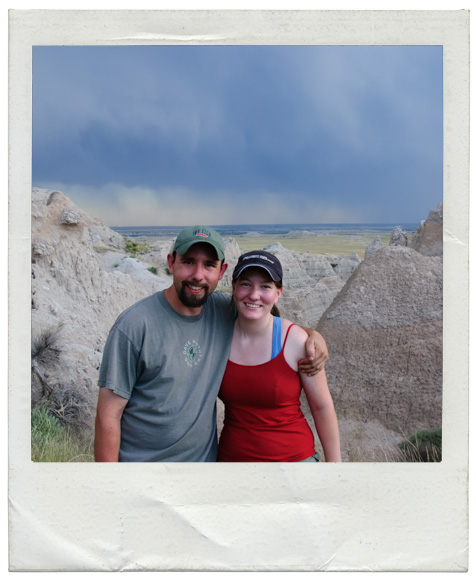
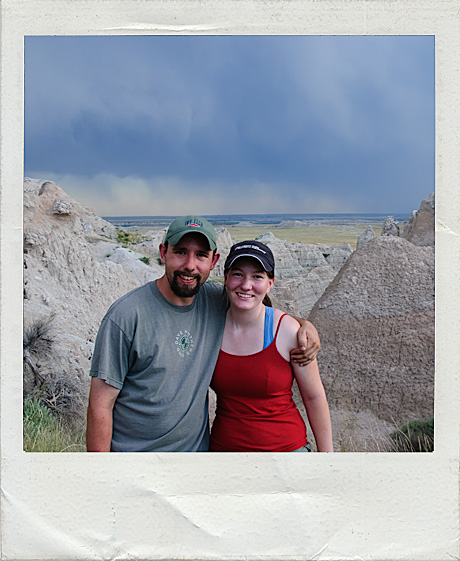
added picture and lorem ipsum

diff --git a/app/assets/stylesheets/pages.css.scss b/app/assets/stylesheets/pages.css.scss
@@ -110,7 +110,11 @@ header#mainHeader ul li.this {
 	border-right: 1px solid #000;
 	border-top: 1px solid #000;
 	border-bottom: 1px solid #000;
-	
+}
+
+#main div#homecontent
+{
+  margin-right: 25px;
 }
 
 .leg {
@@ -185,3 +189,17 @@ img#flower {
 	left: 900px;
 	bottom: 500px;
 }
+
+img#polaroid {
+  -ms-filter: "progid:DXImageTransform.Microsoft.Matrix(M11=0.99619470, M12=0.08715574, M21=-0.08715574, M22=0.99619470,sizingMethod='auto expand')";
+  filter: progid:DXImageTransform.Microsoft.Matrix(M11=0.99619470, M12=0.08715574, M21=-0.08715574, M22=0.99619470,sizingMethod='auto expand');
+  -moz-transform:  matrix(0.99619470, -0.08715574, 0.08715574, 0.99619470, 0, 0);
+  -webkit-transform:  matrix(0.99619470, -0.08715574, 0.08715574, 0.99619470, 0, 0);
+  -o-transform:  matrix(0.99619470, -0.08715574, 0.08715574, 0.99619470, 0, 0);
+  position: relative;
+  right: 120px;
+  float: left;
+}
+
+
+  
